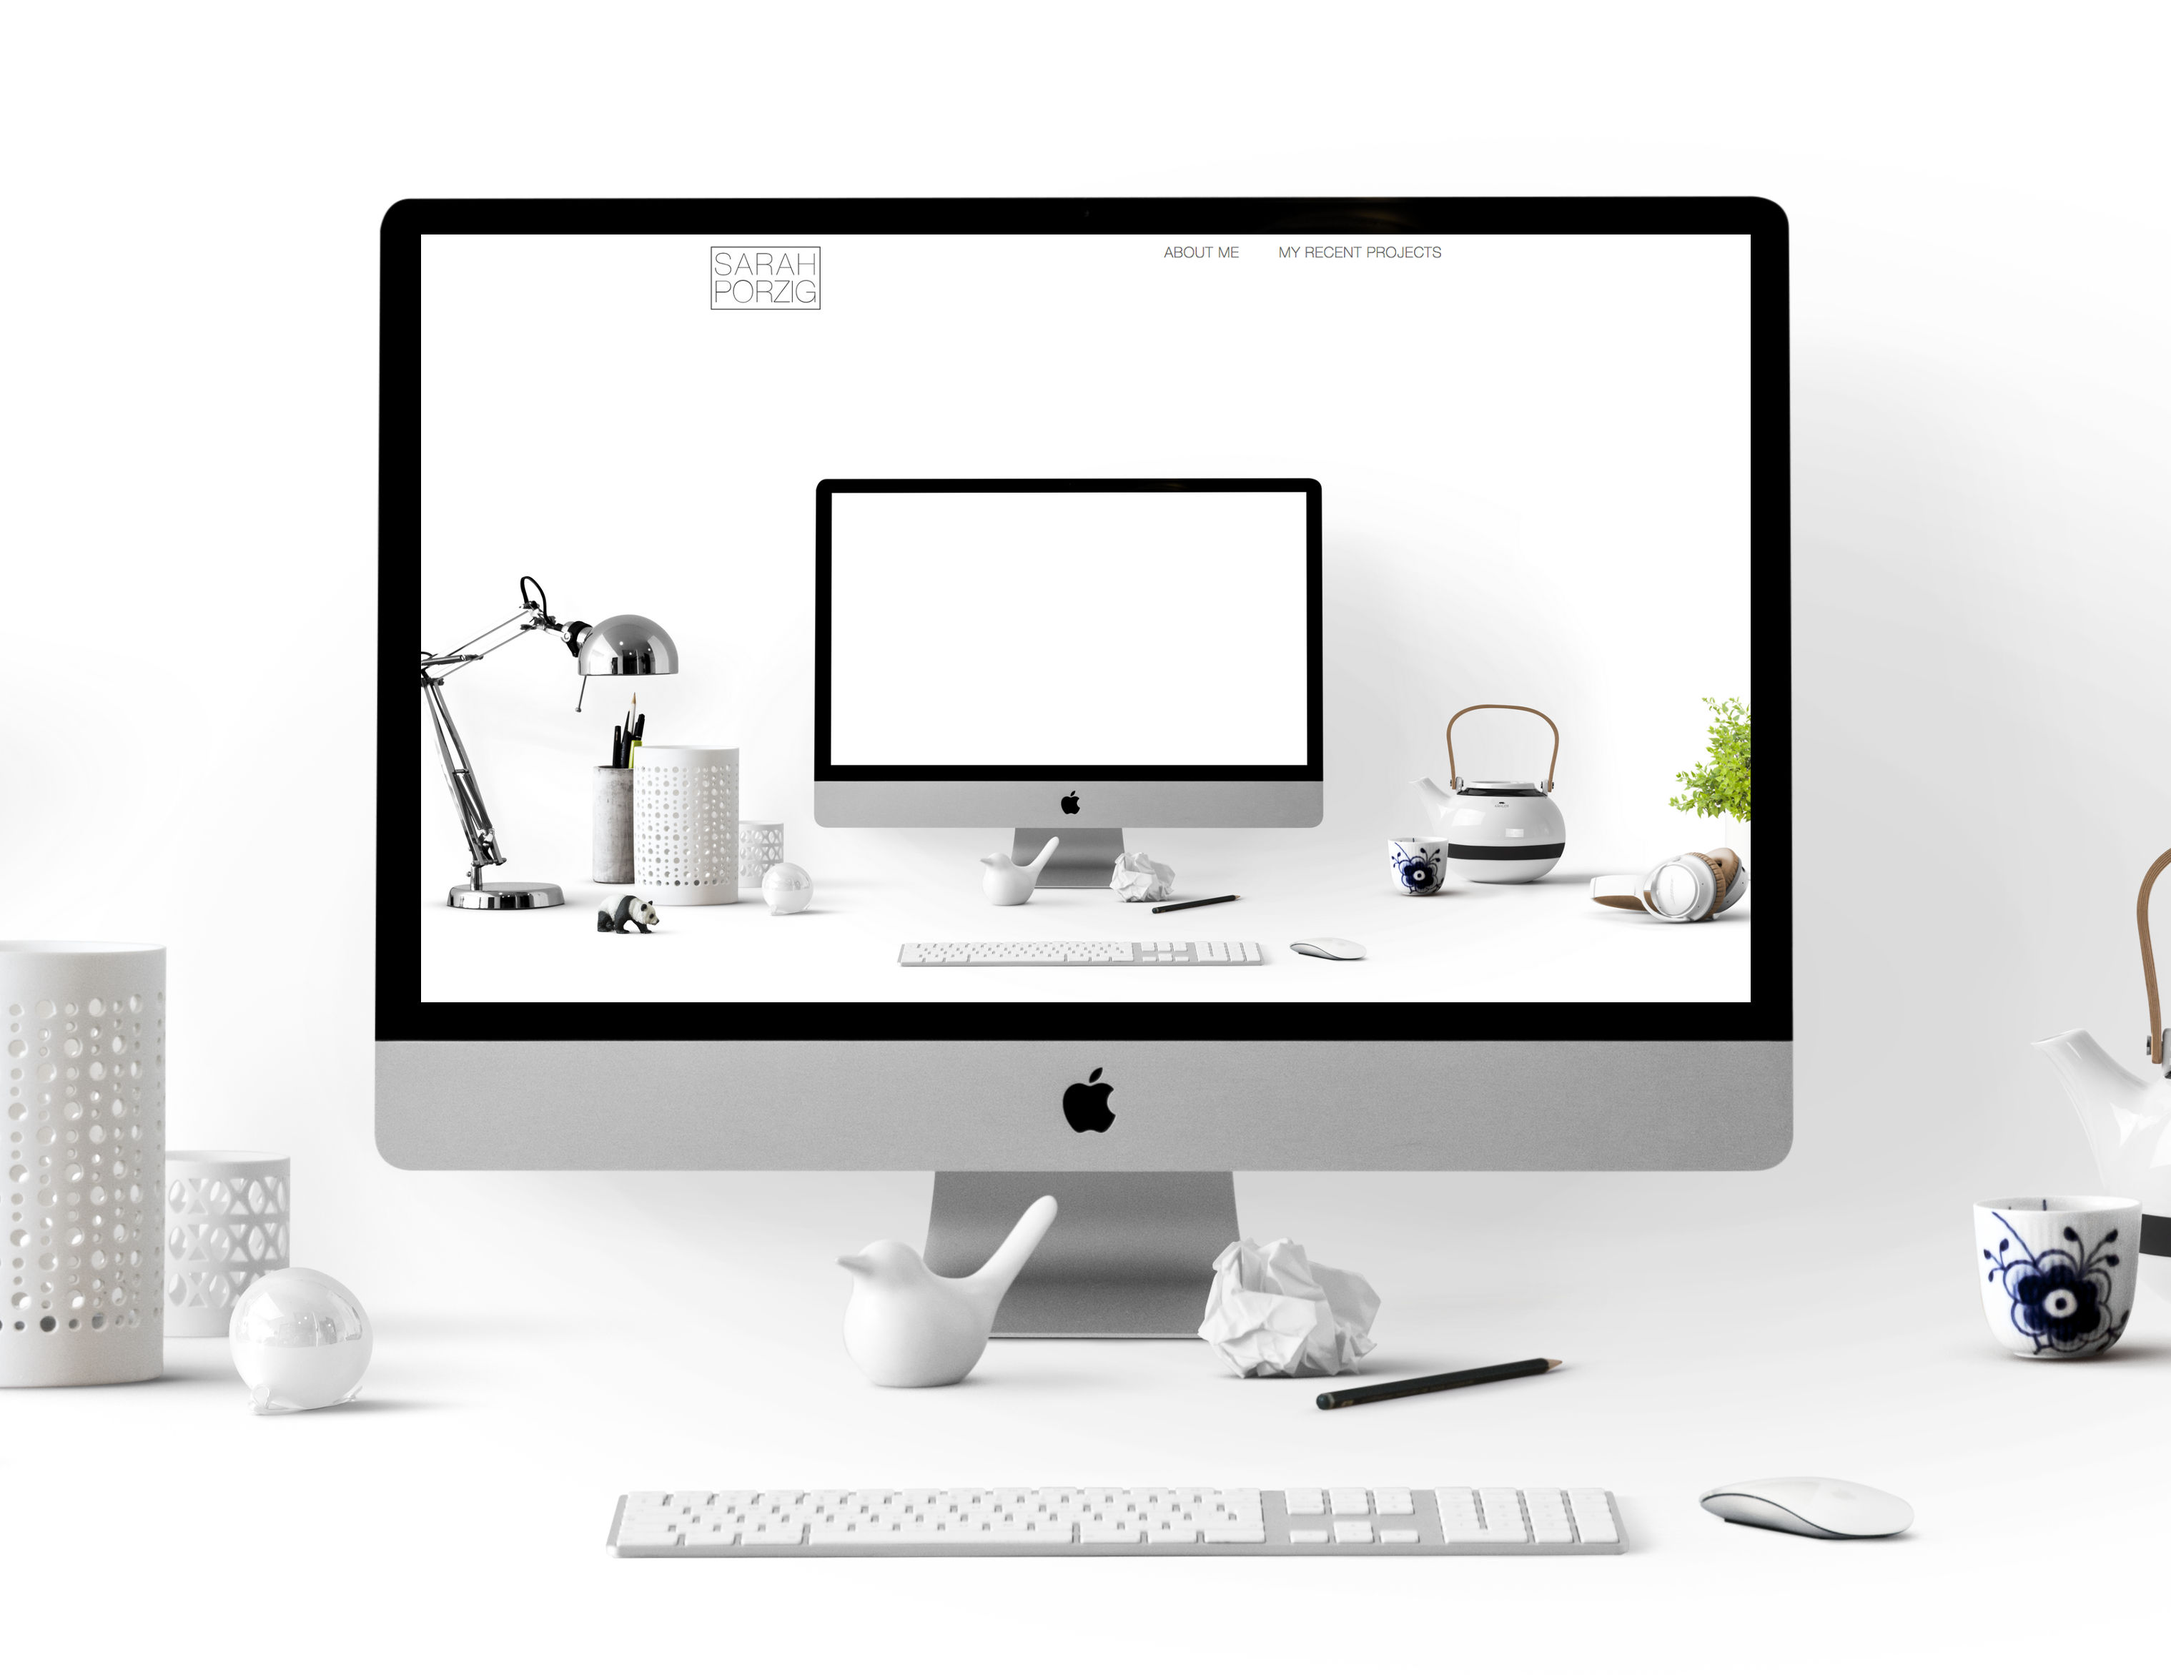
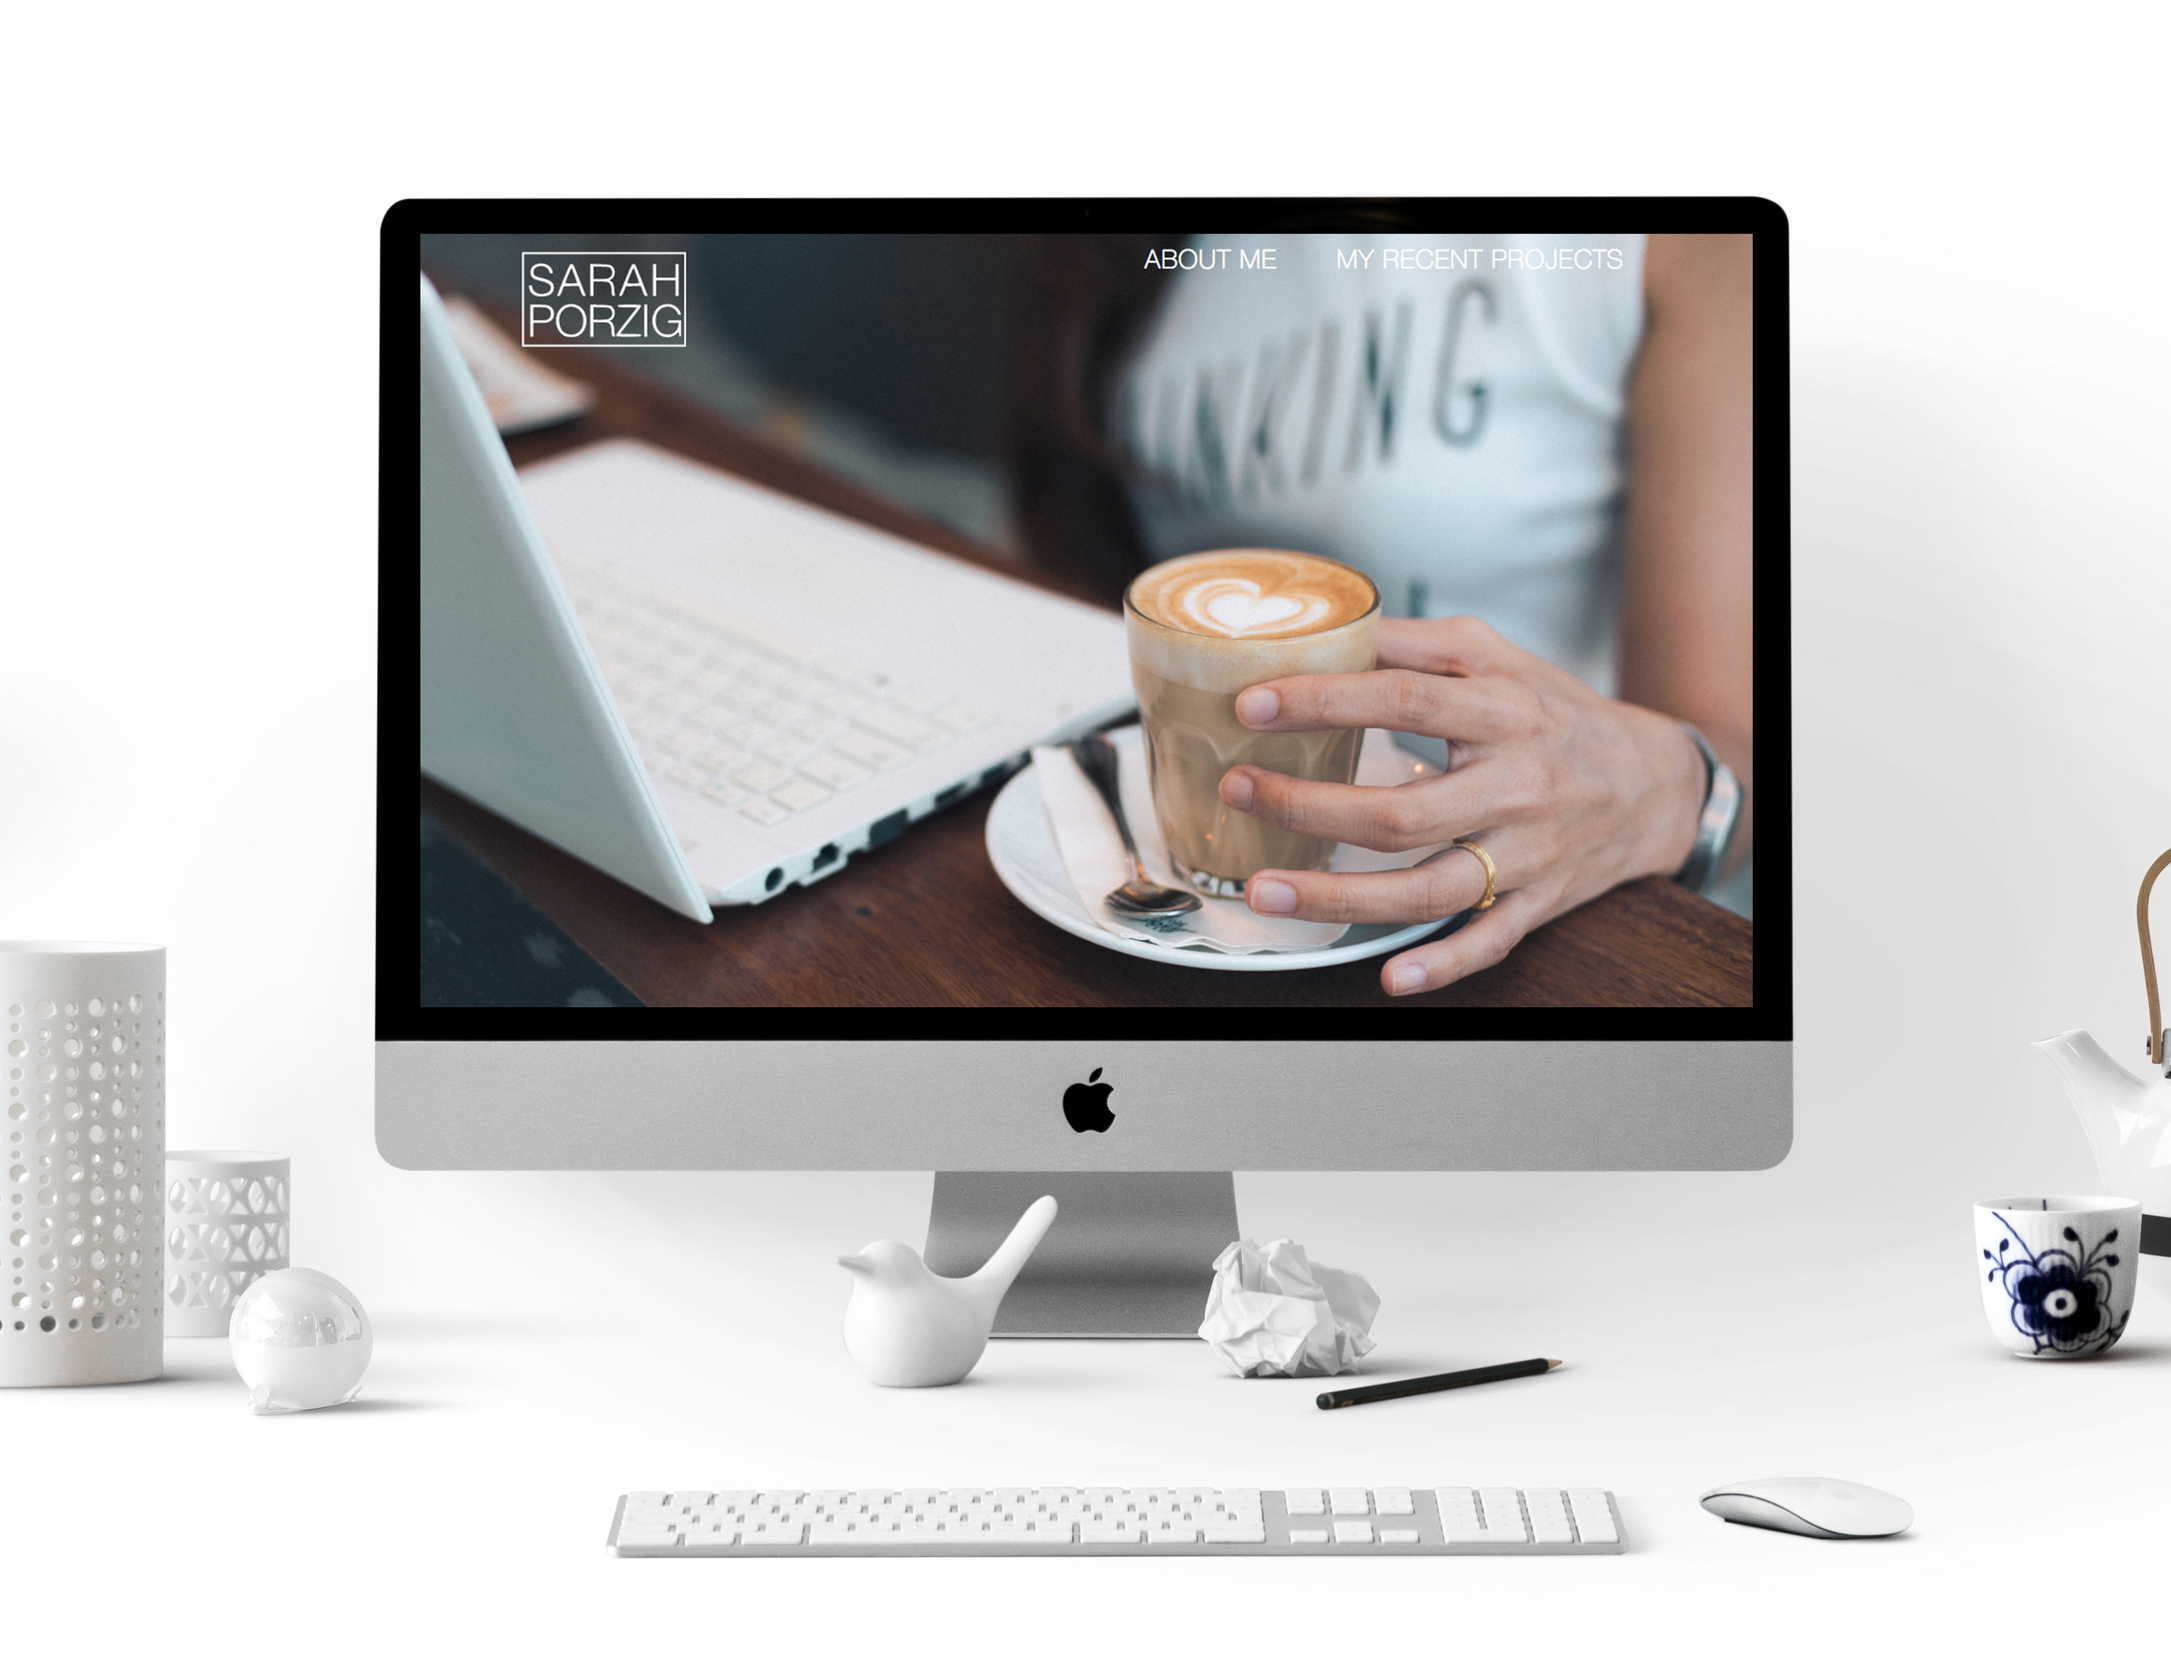
Big changes to imagery across site

Changed region(s): [[0.1857, 0.1246, 0.8047, 0.6231]]

diff --git a/index.html b/index.html
@@ -20,7 +20,7 @@
             <span class="icon-bar"></span>
             <span class="icon-bar"></span>
           </button>
-          <a class="navbar-brand" href="#"><img src="images/logo.png" id="brand" alt="logo"><span class="subhead"> <!--- add sub-branding here if needed --> </span></a>
+          <a class="navbar-brand" href="#"><img src="images/logo.svg" id="brand" alt="logo"><span class="subhead"> <!--- add sub-branding here if needed --> </span></a>
         </div> <!-- navbar header -->
         <div class="collapse navbar-collapse" id="collapse">
           <ul class="nav navbar-nav navbar-right">
@@ -32,11 +32,11 @@
       </div><!-- container -->
     </nav>
 <!-- end navigation -->
-  <img id="navImage" src="images/splashimac.jpg">
+  <img id="navImage" src="images/splashCoffeeLaptop.jpeg">
   <div id="aboutMe" class="aboutMe edge--both">
     <h1 class="blockHeading">About Me</h1>
     <div class="container">
-      <p> I am a freelance Junior Web Developer focussed on delivering high quality websites to my clients using a variety of technologies including HTML, CSS, JavaScript, React.js, Apache, PHP and SQL. </p>
+      <p> I am a freelance Junior Web Developer focussed on delivering high quality websites to my clients using a variety of technologies including HTML, CSS and JavaScript. </p>
       <p>I enjoy the process of building the foundations of a website and then transforming the basic skeleton into something visually appealing and functional. I particularly enjoy creating websites with simple user interfaces and seamless transitions.</p>
       <p>I am passionate about the blending of design and technology. I enjoy being able to turn concepts into dynamic and exciting user interfaces and experiences. I find the world of technology inspiring and am excited to be involved in the field as the industry evolves.</p>
       <p> Please feel free to have a look at my recent projects while you are here, you can also find me on LinkedIn and GitHub at the links below. </p>
@@ -54,16 +54,16 @@
           </ol>
           <div class="carousel-inner">
           <div class="item active">
-              <img src="images/imacwhiteprojectsfigmad.jpg" alt="Caramar Project">
+              <img src="images/deskFigMad.jpeg" alt="Caramar Project">
             </div>
             <div class="item">
-              <img src="images/imacwhiteprojectsportfolio.jpg" alt="Portfolio Project">
+              <img src="images/deskPortfolio.jpeg" alt="Portfolio Project">
             </div>
             <div class="item">
-              <img src="images/imacwhiteprojectsreact.jpg" alt="React Template Project">
+              <img src="images/deskReact.jpeg" alt="React Template Project">
             </div>
             <div class="item">
-              <img src="images/imacwhiteprojectslakesview.jpg" alt="Lakes View Project">
+              <img src="images/deskLakesView.jpeg" alt="Lakes View Project">
             </div>
           </div><!--carousel inner-->
           <a class="left carousel-control" href="#carouselPortfolio" role="button" data-slide="prev"><span class="glyphicon glyphicon-chevron-left"></span></a>

diff --git a/css/styles.css b/css/styles.css
@@ -7,15 +7,19 @@ body {
   position: relative;
   z-index: -1;
   background-color: white;
-  margin-bottom: 100px;
+  margin-bottom: 0px;
+  margin-top: 0px;
 }
 .navbar-default{
   background-color: transparent;
   border-color: transparent;
+  margin-bottom: 0px;
+  position: absolute;
+  width: 100%;
 }
 .navbar-nav > li > a {
 	font-family:  'Helvetica Neue', Arial,sans-serif;
-  color: #656565;
+  color: #ffffff !important; 
   font-weight: 200;
   font-size: 22px;
   text-transform: uppercase;
@@ -52,6 +56,8 @@ background-color: transparent;
 }
 #brand {
   width: 170px;
+  -webkit-filter: invert(1);
+   filter: invert(1);
 }
 p > a {
   text-decoration: none;
@@ -154,6 +160,7 @@ p{
   width: 100%;
   padding-top: 50px;
   padding-bottom: 50px;
+  z-index: 1;
 }
 /* Concept for skewed edges taken from http://www.hongkiat.com/blog/skewed-edges-css/ */
 .aboutMe:after{
@@ -183,6 +190,7 @@ p{
   padding-top: 100px;
   padding-bottom: 100px;
   background: #E5E5E5;
+  z-index: 1;
 }
 /* Concept for skewed edges taken from http://www.hongkiat.com/blog/skewed-edges-css/ */
 #myProjects:after{
@@ -208,9 +216,18 @@ p{
   transform: skewY(-3deg);
 }
 #carousel {
-  margin-bottom: 150px;
-  padding-top: 300px;
+  margin-bottom: 0px;
+  padding-top: 0px;
 }
+
+.carousel-inner>.item>img{
+  z-index: -1;
+}
+
+ol.carousel-indicators {
+margin-bottom: 60px;
+}
+
 .colorPalette {
   opacity: 0.5;
 }
@@ -248,6 +265,7 @@ p{
    #carousel {
   margin-bottom: 0px;
   padding-top: 100px;
+  z-index: -1;
   }
   #myProjects {
     padding-top: 30px;
